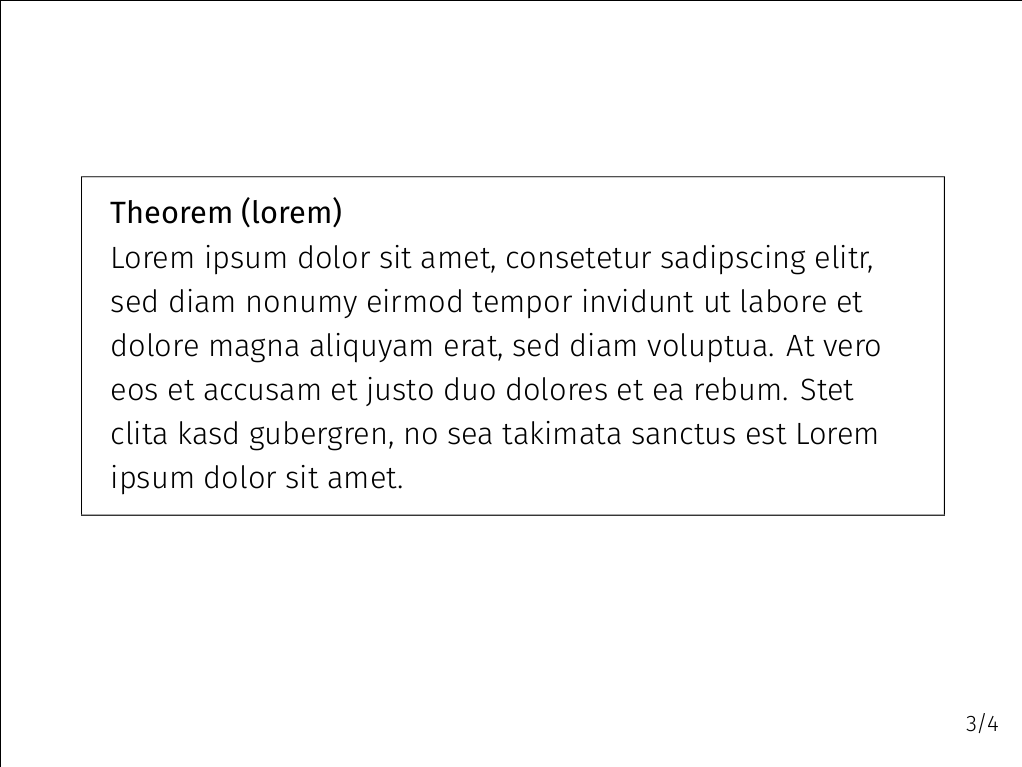
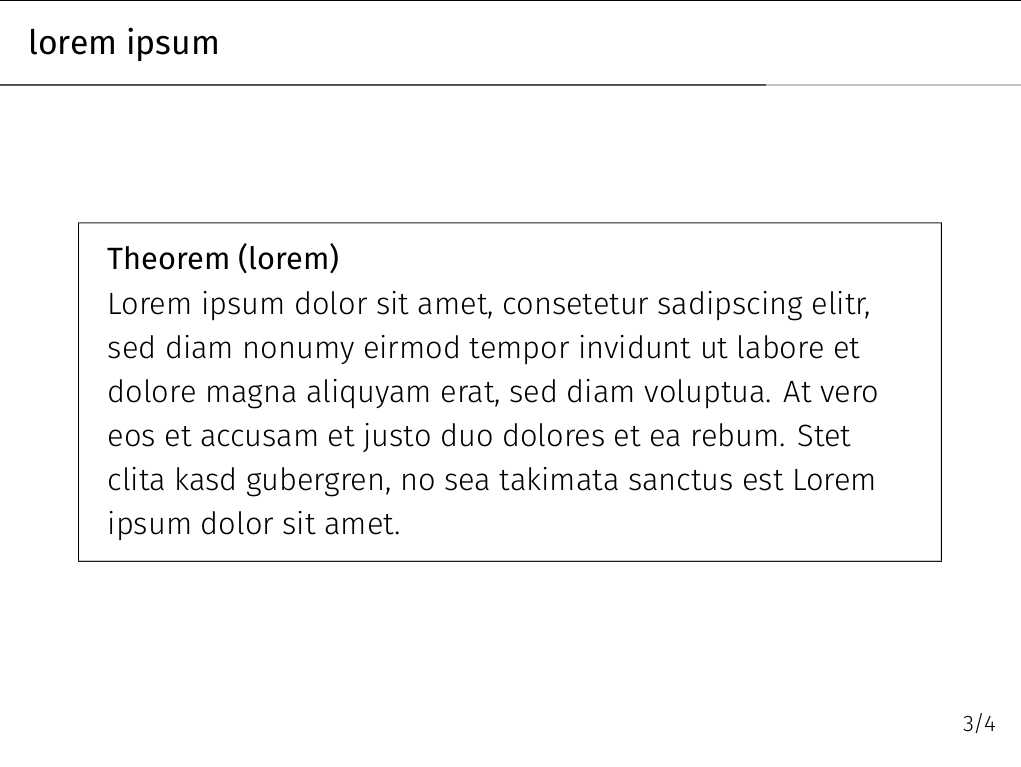
add

diff --git a/beamer_sample.tex b/beamer_sample.tex
@@ -108,7 +108,7 @@ Lorem ipsum dolor sit amet, consetetur sadipscing elitr, sed diam nonumy eirmod
 	amet.
 \end{frame}
 %-------------------------------------------------------------
-\begin{frame}{}
+\begin{frame}{lorem ipsum}
 	\begin{thm}[lorem]
 Lorem ipsum dolor sit amet, consetetur sadipscing elitr, sed diam nonumy
 		eirmod tempor invidunt ut labore et dolore magna aliquyam
